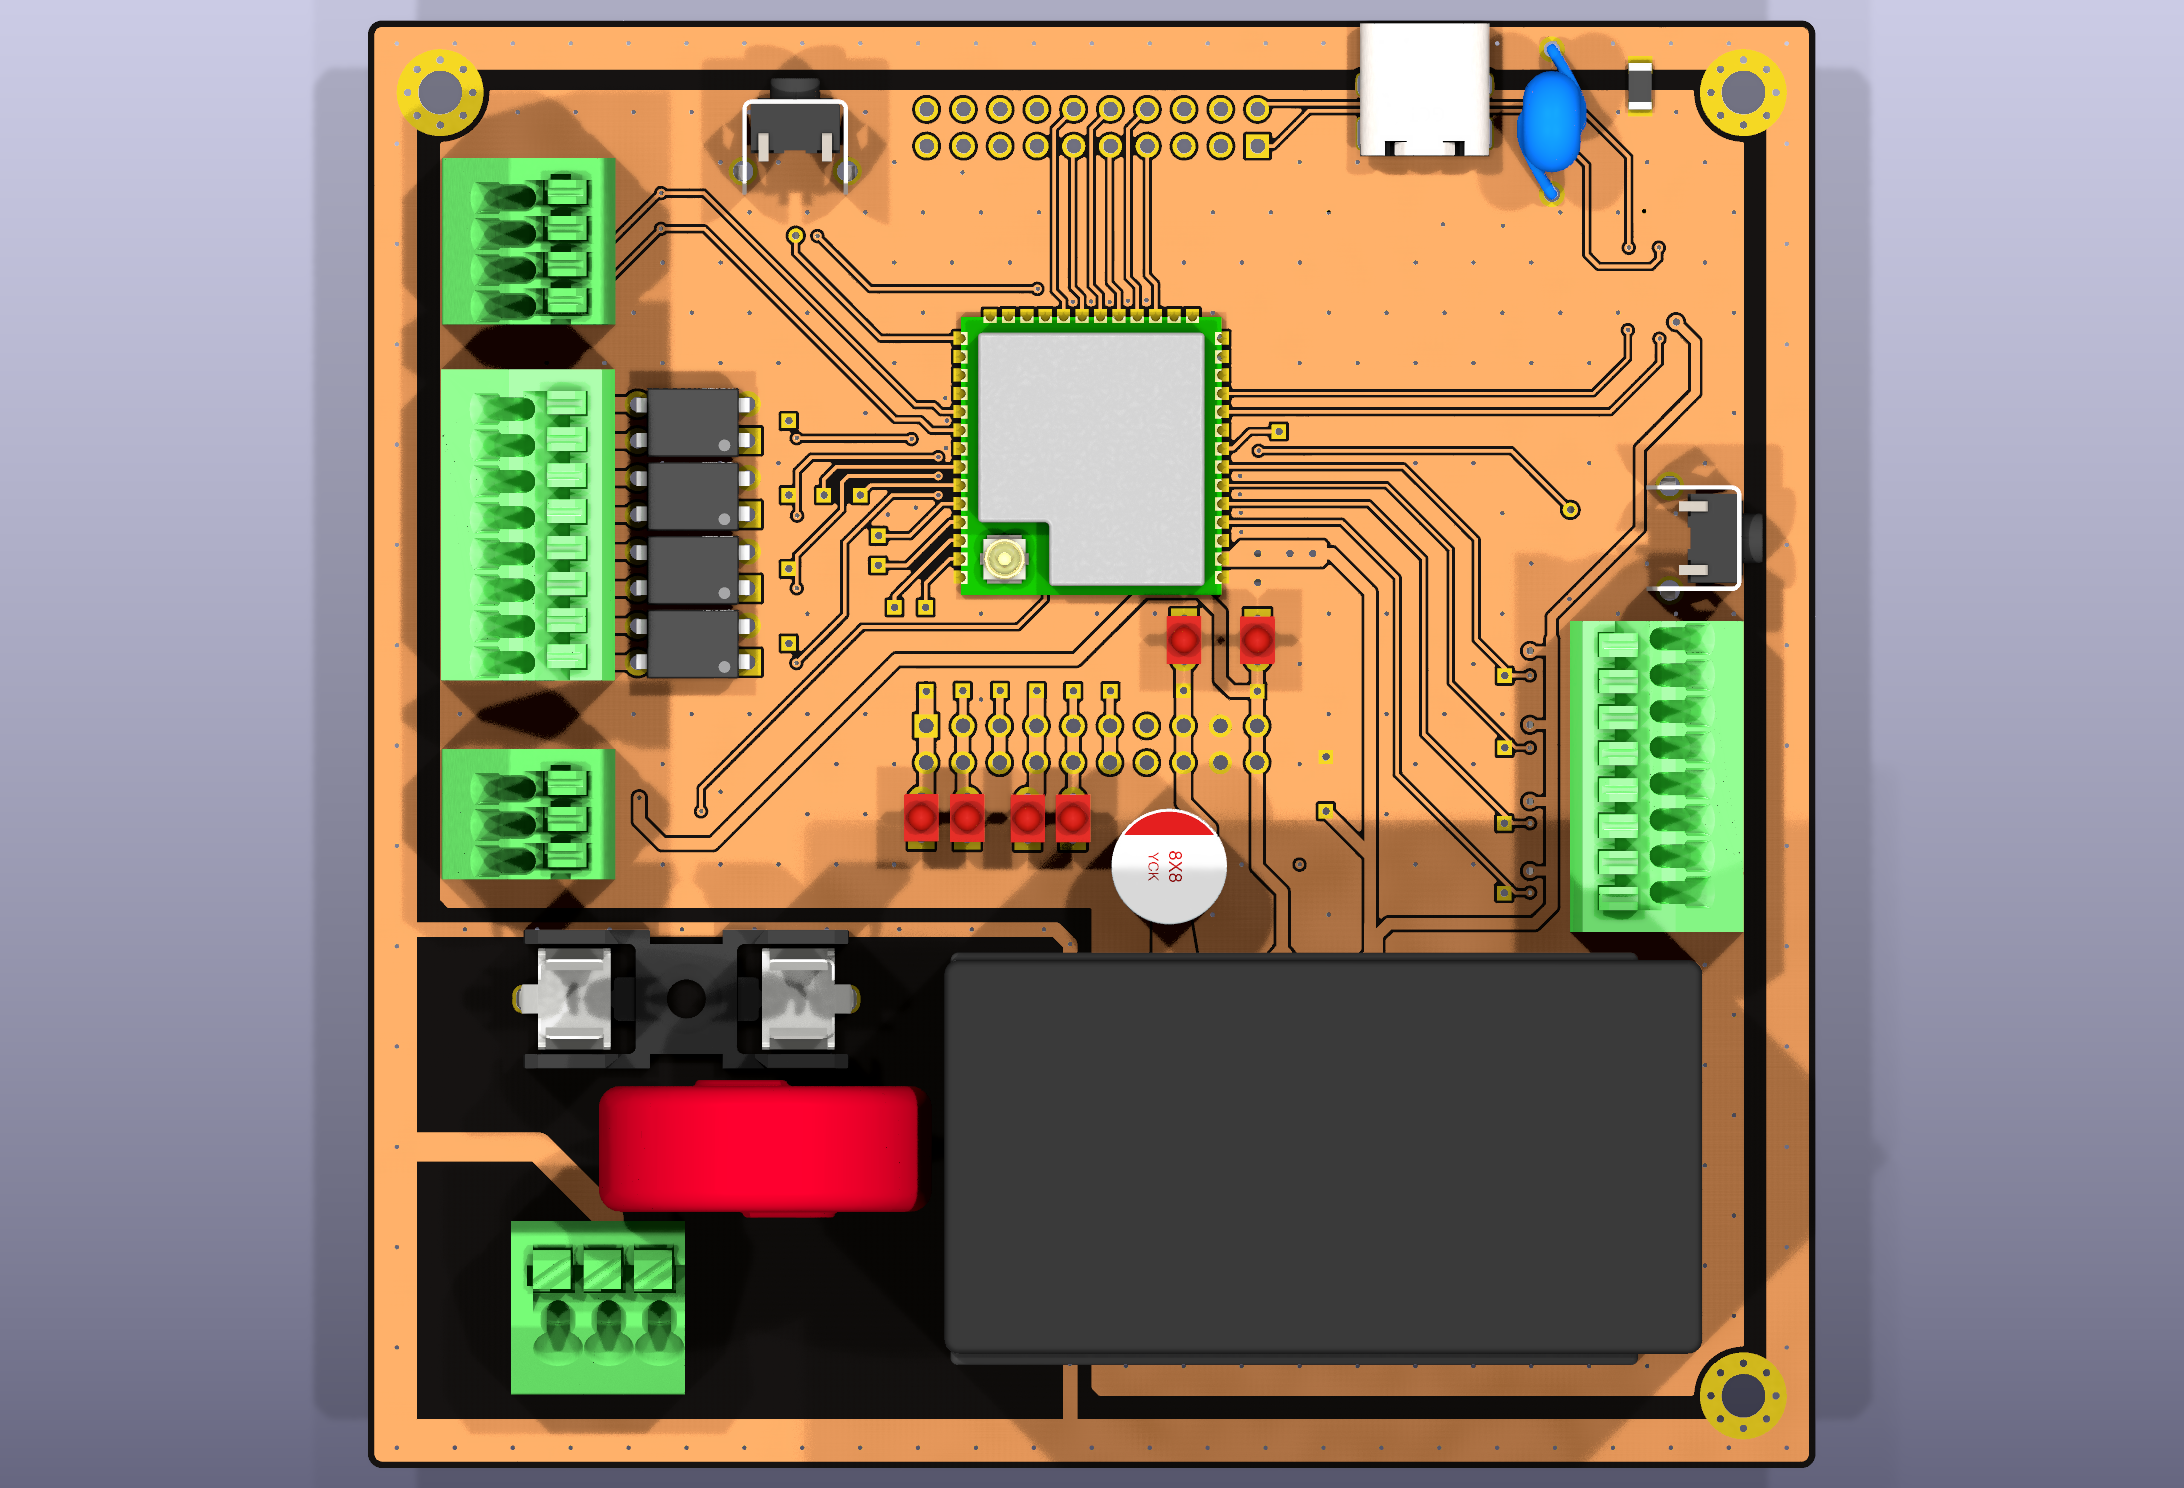
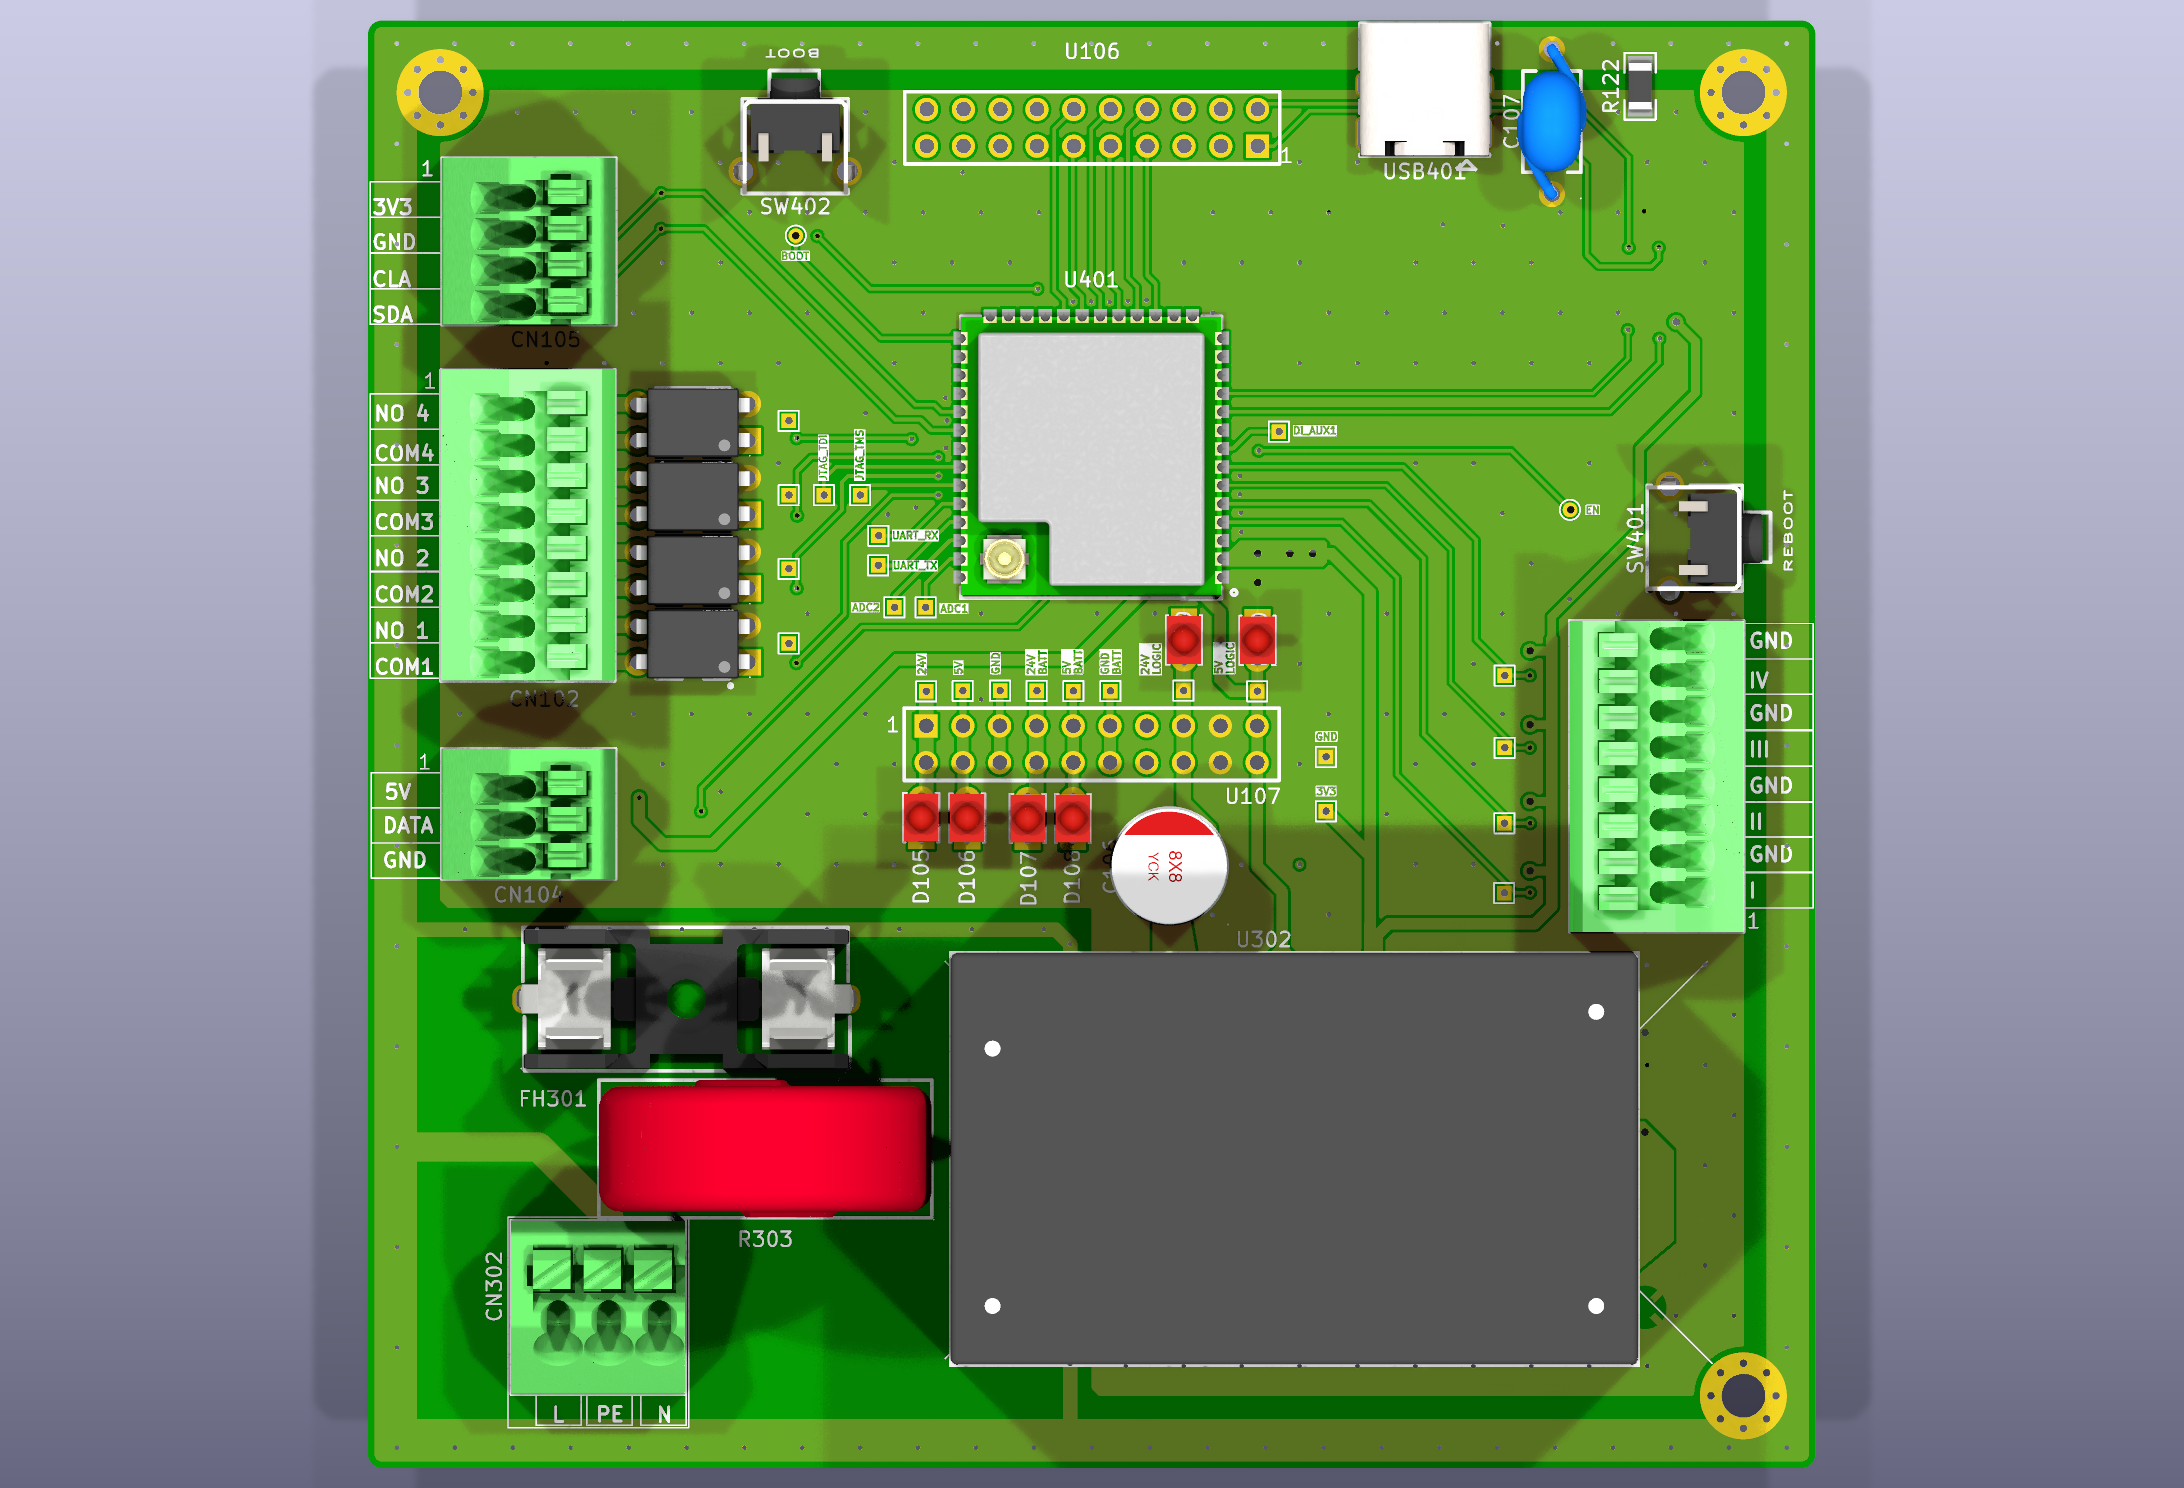
Auto backup: 2026-11-21 08:51:00

diff --git a/README.md b/README.md
@@ -45,9 +45,9 @@ KiCad hardware project for the modular IoT controller.
 
 ### 3D render — pohľad zhora
 
-![PCB 3D render from top, with F.SilkS](docs/images/pcb-3d-top.png)
+![PCB 3D render from top with green solder mask, visible copper traces, and F.SilkS](docs/images/pcb-3d-top.png)
 
 ### 3D render — pohľad zdola
 
-![PCB 3D render from bottom, with B.SilkS](docs/images/pcb-3d-bottom.png)
+![PCB 3D render from bottom with green solder mask, visible copper traces, and B.SilkS](docs/images/pcb-3d-bottom.png)
 <!-- AUTO-DOCS-END -->
